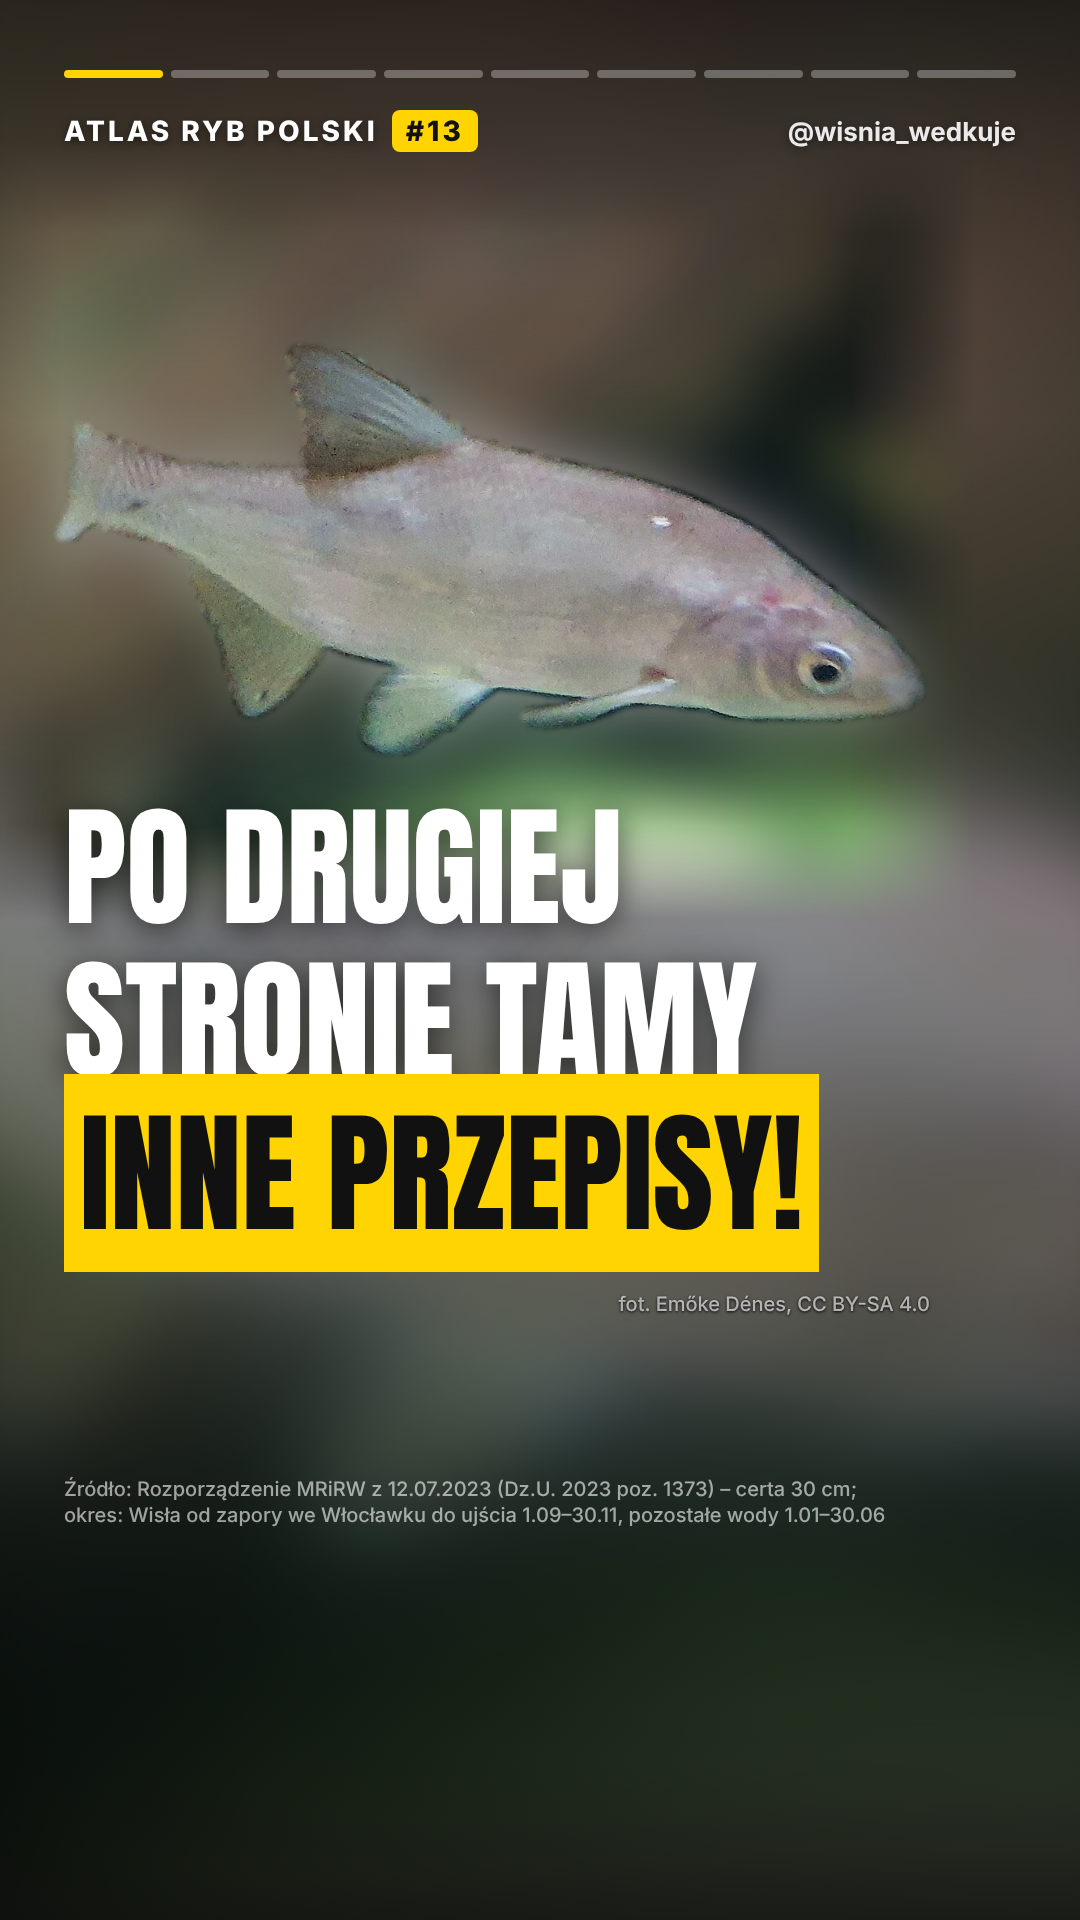
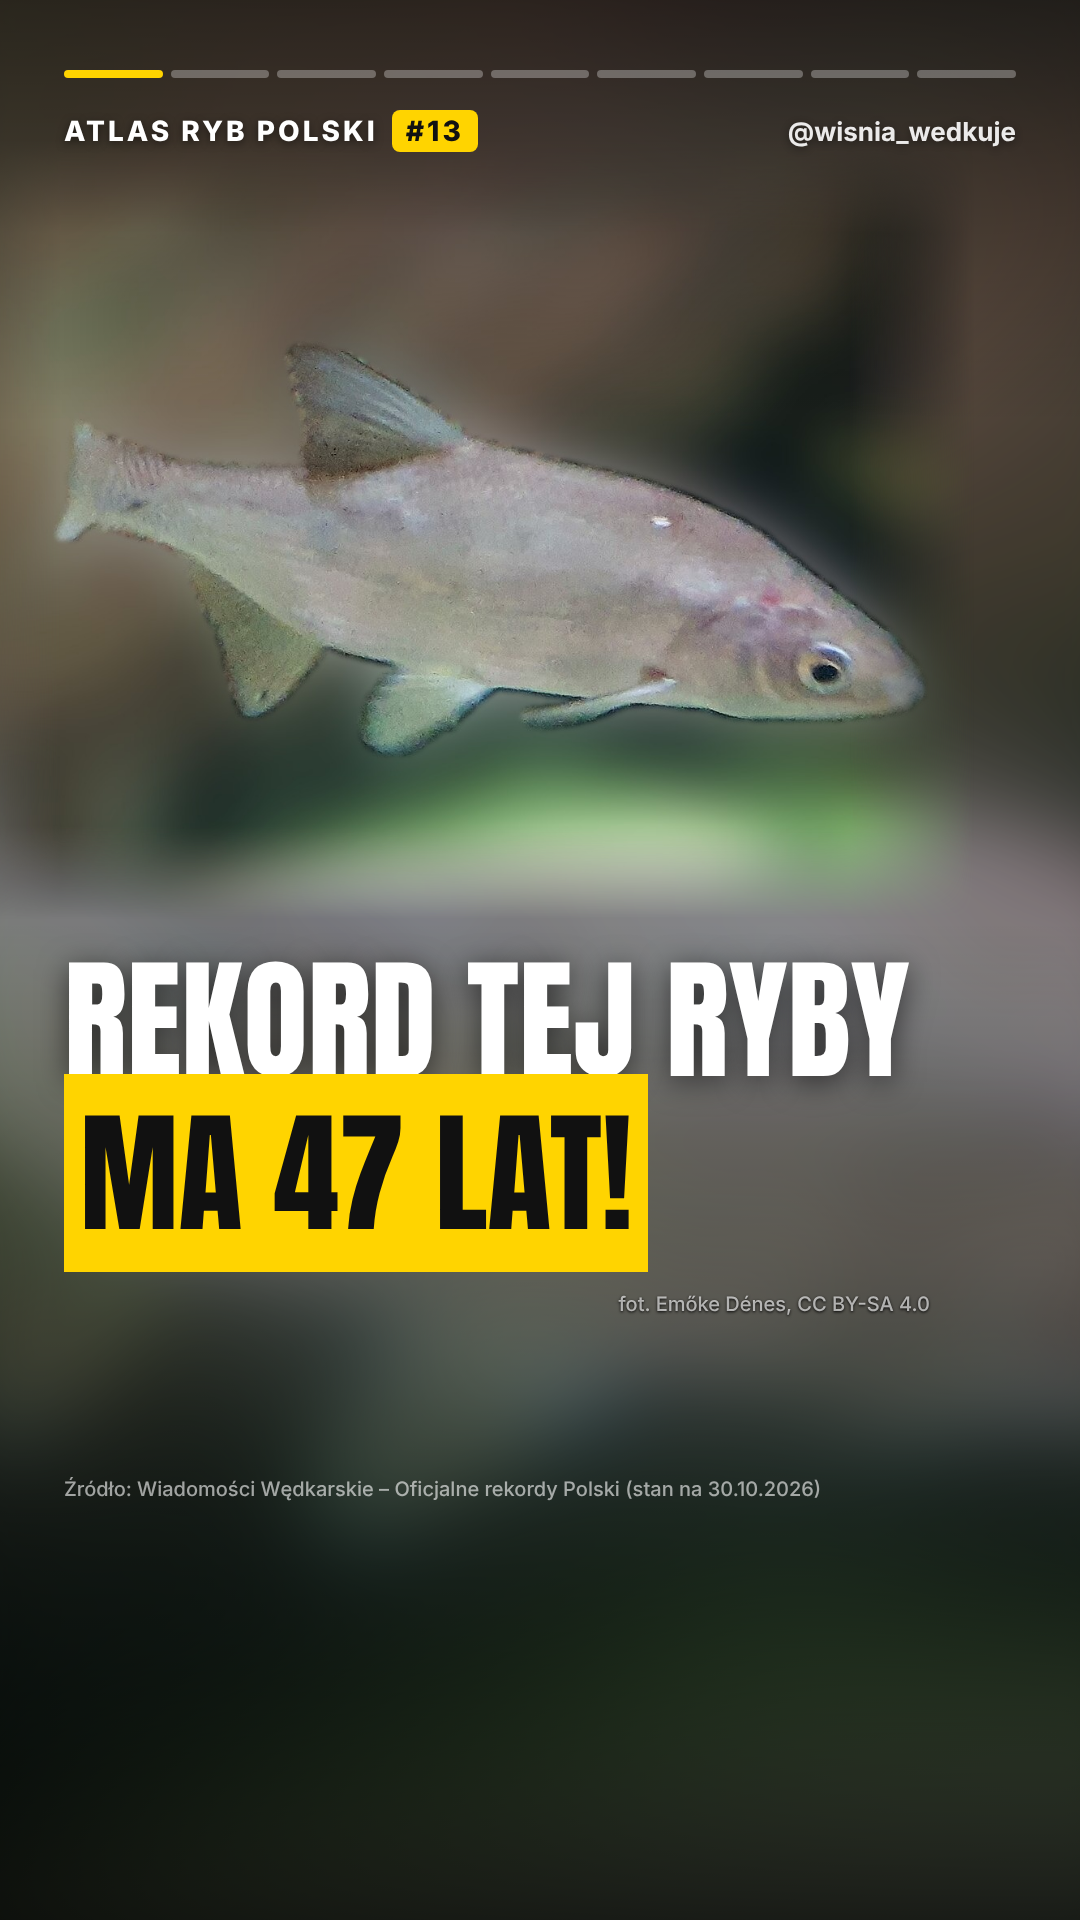
Certa 13: hook o rekordzie niepobitym od 47 lat
Claude-Session: https://claude.ai/code/session_01P9R5v2yPFHwMJVw1yZXoPw

diff --git a/atlas/scenariusze/certa.md b/atlas/scenariusze/certa.md
@@ -3,19 +3,19 @@
 Głos: ElevenLabs „JA Paweł” (`bHIh6fgsLVytKSOdaWBi`), model eleven_v4, jeden wariant. 216 słów.
 
 Hook (zasada: psychologiczny / kreatywny / mega ciekawy), warianty z hook-writer:
-1. „Po drugiej stronie tamy – inne przepisy!” (paradoks + stawka dla wędkarza) – **wybrany**: rozporządzenie ma dla certy dwa okresy ochronne w zależności od odcinka Wisły (poniżej / powyżej zapory we Włocławku).
-2. „Rekordu tej ryby nikt nie pobił od 47 lat” (liczba) – wykorzystany w scenie 7.
+1. „Rekord tej ryby ma 47 lat!” (liczba + luka ciekawości) – **wybrany przez użytkownika**: rekord WW z 1979 r. wciąż obowiązuje.
+2. „Po drugiej stronie tamy – inne przepisy!” (paradoks) – wykorzystany w scenie 8.
 3. „Na tarło ta ryba zmienia kolor na prawie czarny” (obraz) – wykorzystany w scenie 2.
 
 | # | Klatka | Tekst lektora | Źródło |
 |---|---|---|---|
-| 1 | Hook | Dwa okresy ochronne w jednej rzece: w Wiśle poniżej zapory we Włocławku jesień, powyżej – zima i wiosna. | rozp2023 (§ okresy: certy a) 1.09–30.11, b) 1.01–30.06) |
+| 1 | Hook | Rekordu tej ryby nikt nie pobił od 47 lat; padł w 1979 r. i nadal stoi w oficjalnej tabeli rekordów Polski. | ww |
 | 2 | Karta | Certa, ryba wędrowna z rodziny karpiowatych; w czasie tarła grzbiet prawie czarny, spód pomarańczowy. | wiki_pl |
 | 3 | Rozpoznanie | Wystający nos z pyskiem od spodu, kil bez łusek na brzuchu, żółtawe/czerwonawe płetwy parzyste i odbytowa. | wiki_pl |
 | 4 | Rozmiary | 50 cm, 15 lat; w wieku 10 lat ok. 30 cm. | fishbase, wiki_pl |
 | 5 | Występowanie | Dolne odcinki rzek, przybrzeżne wody Bałtyku; na tarło daleko w górę rzek; ikra w płytkiej, szybkiej wodzie na żwirze. | wiki_pl, fishbase |
 | 6 | Ciekawostka | Dawniej ważna ryba gospodarcza; zabudowa rzek i przełowienie zmniejszyły jej liczebność. | wiki_pl, fishbase („Threatened … due to water obstruction”) |
-| 7 | Rekord Polski | 1,74 kg i 51 cm – Kazimierz Stanisławski, 1979. | ww |
+| 7 | Rekord Polski | 1,74 kg i 51 cm – Kazimierz Stanisławski (1979). | ww |
 | 8 | Przepisy | Państwowo 30 cm; okres 1.01–30.06, w Wiśle poniżej Włocławka 1.09–30.11. PZW: 30 cm w 5 okręgach (Zielona Góra chroni też certy od 45 cm). | rozp2023, `data/przepisy_pzw.json` |
 | 9 | CTA | Następny gatunek: węgorz. | – |
 
